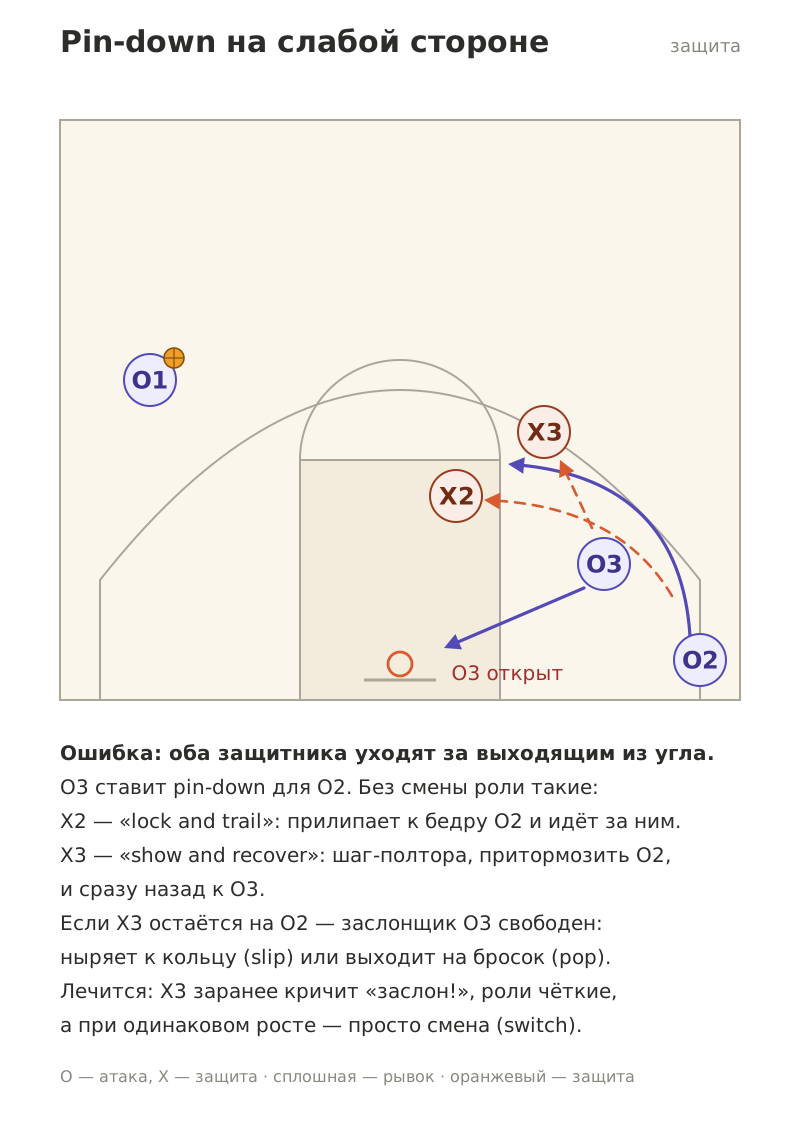
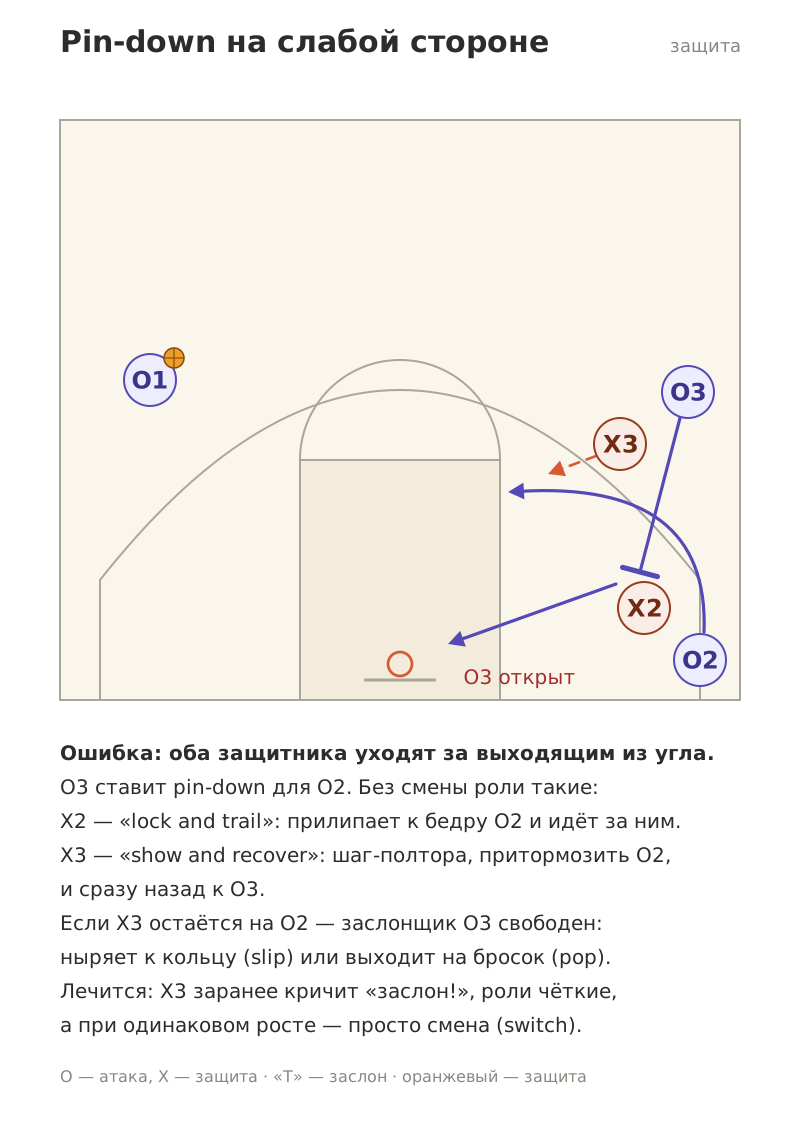
Draw the screen on the pin-down diagram; restructure README with contents and uniform sections
Claude-Session: https://claude.ai/code/session_01UhMy62ujh4CaQqbZMVLs31

diff --git a/tools/make_diagrams.py b/tools/make_diagrams.py
@@ -221,14 +221,14 @@ def upper_cross():
 
 
 def pin_down_defense():
-    d = arrow("quad", [(335, 278), (330, 200), (244, 192)], CUT)
-    d += arrow("line", [(282, 254), (212, 284)], CUT)
-    d += arrow("line", [(286, 224), (270, 190)], DEF_MOVE, dashed=True, width=1.3)
-    d += arrow("quad", [(326, 258), (300, 214), (232, 210)], DEF_MOVE, dashed=True, width=1.3)
+    d = screen("line", [(330, 169), (310, 246)])
+    d += arrow("quad", [(342, 276), (345, 200), (244, 206)], CUT)
+    d += arrow("line", [(298, 252), (214, 282)], CUT)
+    d += arrow("line", [(288, 188), (264, 197)], DEF_MOVE, dashed=True, width=1.3)
     d += player(65, 150, "O1", ball=True)
-    d += player(292, 242, "O3") + player(340, 290, "O2")
-    d += player(262, 176, "X3", side=DEF) + player(218, 208, "X2", side=DEF)
-    d += note(244, 300, "O3 открыт", color="#A32D2D")
+    d += player(334, 156, "O3") + player(340, 290, "O2")
+    d += player(300, 182, "X3", side=DEF) + player(312, 264, "X2", side=DEF)
+    d += note(250, 302, "O3 открыт", color="#A32D2D")
     lines = [
         "**Ошибка: оба защитника уходят за выходящим из угла.",
         "O3 ставит pin-down для O2. Без смены роли такие:",
@@ -240,7 +240,8 @@ def pin_down_defense():
         "Лечится: X3 заранее кричит «заслон!», роли чёткие,",
         "а при одинаковом росте — просто смена (switch).",
     ]
-    return card("Pin-down на слабой стороне", "защита", d, lines, LEGEND_DEF)
+    return card("Pin-down на слабой стороне", "защита", d, lines,
+                "O — атака, X — защита · «Т» — заслон · оранжевый — защита")
 
 
 DEF_FADED = dict(fill="#FDF7F4", stroke="#E6BFAF", text="#C69A88")

diff --git a/README.md b/README.md
@@ -1,36 +1,45 @@
 # Баскетбольная тактика
 
-Схемы комбинаций с описаниями. Картинки лежат в [`diagrams/`](diagrams/), их можно открыть и переслать как есть.
+Схемы комбинаций с описаниями. Каждую картинку можно открыть и переслать как есть.
+
+| | Раздел | Что внутри |
+|---|---|---|
+| 🔀 | [Кресты и скресты](#кресты-и-скресты) | Ножницы через высокий пост, заслон поперёк и screen the screener |
+| 🔁 | [Пик-н-ролл на элбоу](#пик-н-ролл-на-элбоу) | Расстановка, опции атаки, игра против смены и хеджа |
+| ⬆ | [Заслон для ведущего сверху](#заслон-для-ведущего-сверху) | Заслон с блока, проход по пустой стороне, смена, ресет |
+| 🛡 | [Защита: pin-down](#защита-pin-down) | Частая ошибка, когда защитники не меняются |
+
+**Обозначения:** O1–O5 — атака, X — защита. Сплошная стрелка — рывок или проход, пунктир — пас, линия с «Т» на конце — заслон (упирается в защитника, на которого его ставят), оранжевым — движение защиты, цифры в кружках — порядок действий или номер опции.
+
+---
+
+## Кресты и скресты
 
 ![Кресты и скресты](diagrams/all-four-plays.png)
 
-## Обозначения
-
-- **O1–O5** — атака, **X** — защита
-- Сплошная стрелка — рывок, пунктир — пас, линия с «Т» на конце — заслон
-- Цифры в кружках — порядок действий
-
-## Атака
-
-| Схема | Суть | Английское название |
+| Схема | Суть | По-английски |
 |---|---|---|
-| [Нижний скрест](diagrams/01-lower-scissors.png) | Пас на O5 на линию штрафного, O3 и O4 по очереди режут крест-накрест между O5 и кольцом | split cuts / scissors |
-| [Верхний скрест](diagrams/02-upper-scissors.png) | То же, но рывки скрещиваются над O5, ближе к мячу; удобнее хэндофф | split cuts / scissors |
-| [Нижний крест](diagrams/03-lower-cross.png) | Заслон поперёк под кольцом для центрового, затем pin-down самому заслонщику | screen the screener, cross-down |
+| [Нижний скрест](diagrams/01-lower-scissors.png) | Пас на O5 на линию штрафного, O3 и O4 по очереди режут крест-накрест между O5 и кольцом | split cuts, scissors |
+| [Верхний скрест](diagrams/02-upper-scissors.png) | То же, но рывки скрещиваются над O5, ближе к мячу; удобнее хэндофф | split cuts, scissors |
+| [Нижний крест](diagrams/03-lower-cross.png) | Заслон поперёк под кольцом для центрового, затем pin-down самому заслонщику | screen the screener |
 | [Верхний крест](diagrams/04-upper-cross.png) | Заслон поперёк на уровне элбоу, заслонщик выходит наверх | elbow cross screen |
 
-## Пик-н-ролл
+---
 
-![Пик-н-ролл на элбоу](diagrams/elbow-pnr.png)
+## Пик-н-ролл на элбоу
+
+![Пик-н-ролл на элбоу: расстановка и опции](diagrams/elbow-pnr.png)
+
+![Пик-н-ролл против смены и хеджа](diagrams/elbow-pnr-switch-hedge.png)
 
 | Схема | Суть |
 |---|---|
-| [Расстановка](diagrams/06-elbow-pnr-setup.png) | Где стоят все десять игроков: O5 ставит заслон на X1 у элбоу, X5 в дропе, X4 — нижний страхующий |
-| [Опции](diagrams/07-elbow-pnr-options.png) | Проход, ролл, поп и переводы в угол и на крыло — что выбирать в зависимости от того, кто помогает |
-| [Против смены](diagrams/08-elbow-pnr-vs-switch.png) | Защита меняется — атакуем два мисматча: проход против большого, игра в посту против маленького, слип |
-| [Против хеджа](diagrams/09-elbow-pnr-vs-hedge.png) | Большой выпрыгивает наверх — быстрый пас на ролл, шорт-ролл 4 на 3, отвод мяча, сплит |
+| [Расстановка](diagrams/06-elbow-pnr-setup.png) | Где стоят все десять игроков: O5 ставит заслон на X1 у элбоу, X5 в дропе, X4 страхует снизу |
+| [Опции](diagrams/07-elbow-pnr-options.png) | Проход, ролл, поп, переводы в угол и на крыло — в зависимости от того, кто помогает |
+| [Против смены](diagrams/08-elbow-pnr-vs-switch.png) | Два мисматча: проход против большого, игра в посту против маленького, слип |
+| [Против хеджа](diagrams/09-elbow-pnr-vs-hedge.png) | Быстрый пас на ролл, шорт-ролл 4 на 3, отвод мяча, сплит |
 
-![Пик-н-ролл: смена и хедж](diagrams/elbow-pnr-switch-hedge.png)
+---
 
 ## Заслон для ведущего сверху
 
@@ -40,17 +49,21 @@
 |---|---|
 | [Расстановка и проход](diagrams/10-side-screen-setup.png) | O1 и O2 сверху, слабая сторона перегружена. O5 с блока ставит заслон на X1, O1 финтит и уходит через заслон по пустой стороне на лэй-ап |
 | [Если смена](diagrams/11-side-screen-switch.png) | O5 проваливается в зону против маленького X1, O1 отдаёт под кольцо или атакует большого |
-| [Ресет на другую сторону](diagrams/12-side-screen-reset.png) | Защита осталась при своих — пас на O2, все переходят на другую сторону, и то же самое повторяется |
+| [Ресет на другую сторону](diagrams/12-side-screen-reset.png) | Защита осталась при своих: пас на O2, все переходят на другую сторону, и всё повторяется |
 
-## Защита
+---
 
-| Схема | Суть |
-|---|---|
-| [Pin-down на слабой стороне](diagrams/05-pin-down-defense.png) | Частая ошибка без смены: оба защитника уходят за выходящим из угла, заслонщик остаётся открытым |
+## Защита: pin-down
+
+<img src="diagrams/05-pin-down-defense.png" alt="Pin-down на слабой стороне" width="480">
+
+Частая ошибка без смены: оба защитника уходят за игроком, который выходит из угла, и заслонщик остаётся открытым. Как правильно: X2 прилипает к своему игроку и идёт за ним, X3 на шаг показывает себя и сразу возвращается к заслонщику.
+
+---
 
 ## Как перерисовать
 
-Все схемы генерируются скриптом, правки — в [`tools/make_diagrams.py`](tools/make_diagrams.py):
+Все схемы генерируются одним скриптом. Чтобы поправить или добавить схему, правки вносятся в [`tools/make_diagrams.py`](tools/make_diagrams.py):
 
 ```bash
 pip install cairosvg
